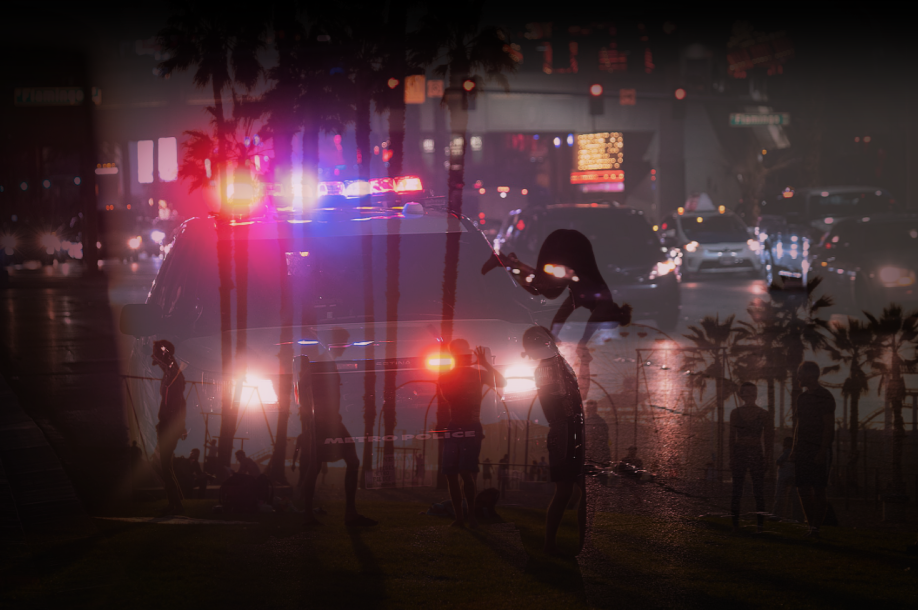
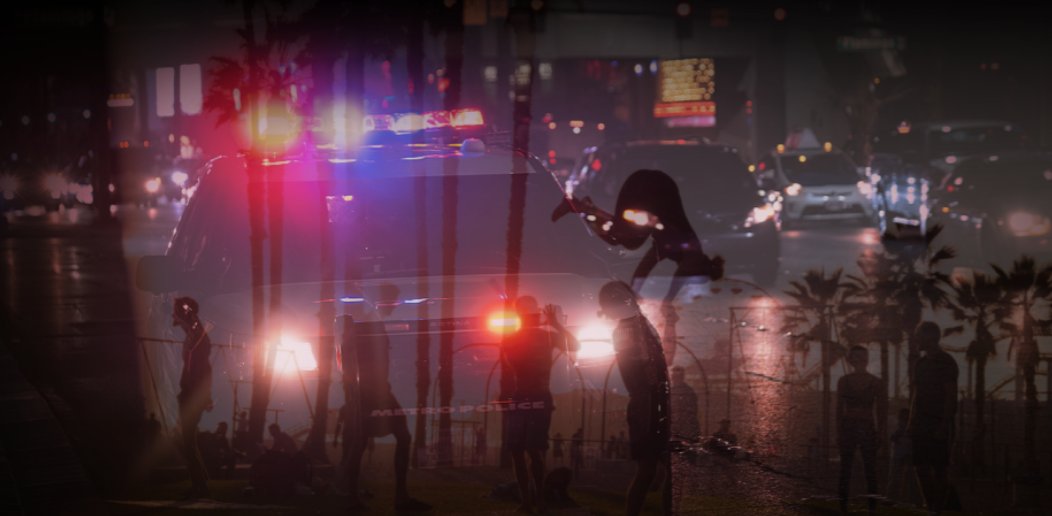
equipe zooning

diff --git a/crud/assets/css/equipe.css b/crud/assets/css/equipe.css
@@ -1,0 +1,30 @@
+.equipe {
+    display: flex;
+    flex-direction: row-reverse;
+    position: absolute;
+    top: 50%;
+    left: 10%;
+    z-index: 500;
+    justify-content: space-between;
+    width: 80%;
+}
+
+.navBarStaff{
+    display: flex;
+    position: absolute;
+    top: 40%;
+    width: 80%;
+    height: 7%;
+    background-color: rgb(255, 255, 255);
+    justify-content: center;
+    left: 10%;
+    align-items: center;
+    border-radius: 30px;
+    opacity: 50%;
+     color: white;
+font-weight: bold;
+}
+
+h4 {
+   
+}

diff --git a/crud/assets/css/commun.css b/crud/assets/css/commun.css
@@ -10,6 +10,7 @@ body {
 
 .scf-city {
     width: 100vw;
+    height: auto;
 }
 
 #titre {
@@ -96,7 +97,7 @@ body {
     width: 900px;
     position: absolute;
     left: 19%;
-    top: 130%;
+    top: 115%;
     display: flex;
     flex-direction: row-reverse;
 }
@@ -171,6 +172,6 @@ body {
 /* Form */
 .form {
     position: absolute;
-    top: 210%;
+    top: 180%;
     width: 100%;
 }

diff --git a/crud/assets/css/reseaux.css b/crud/assets/css/reseaux.css
@@ -1,11 +1,12 @@
 /* reseaux */
 .container_reseaux {
+    position: absolute;
+    top: 20px;
     visibility: hidden;
     width: 100vw;
     display: flex;
     align-items: center;
     justify-content: center;
-    position: absolute;
     top : 89%;
     z-index: 25;
 }

diff --git a/crud/assets/css/header.css b/crud/assets/css/header.css
@@ -2,6 +2,12 @@
     width: 19%;
 }
 
+header{
+    position: sticky;
+    top: 0;
+    z-index: 1000;
+}
+
 .navbar-brand {
     z-index: 50;
     position: absolute;

diff --git a/crud/index.php b/crud/index.php
@@ -86,45 +86,8 @@ require_once 'inc/header.inc.php';
 </div>
 <!-- Carousel End -->
 
-<!-- reseaux NE MARCHE PASSSS !!!! -->
-<!-- reseaux NE MARCHE PASSSS !!!! -->
-<!-- reseaux NE MARCHE PASSSS !!!! -->
-
 <!-- Social media START -->
-<div class="container_reseaux" id="container_reseaux">
-    <div class="reseaux">
-
-        <a href=""><img src="assets\img\logo_Instagram.png" alt=""></a>
-
-        <a href="">
-            <img src="assets\img\logo_facebook.png" alt="">
-        </a>
-
-        <a href="">
-            <img src="assets\img\Logo_tiktok.png" alt="">
-        </a>
-
-        <a href="">
-            <img id="discordLogo" src="assets\img\logo_discord.png" alt="">
-        </a>
-
-        <a href="">
-            <img src="assets\img\logo_twitch.png" alt="">
-        </a>
-
-        <a href="">
-            <img src="assets\img\logo_twitter.png" alt="">
-        </a>
-
-        <a href="">
-            <img src="assets\img\logo_youtube.png" alt="">
-        </a>
-    </div>
-</div>
-
-<div class="logoDiscord2">
-    <img id="logoDiscord2" src="assets\img\logo_discord.png" alt="">
-</div>
+<?php require_once 'inc/reseaux.inc.php' ?>
 <!-- Social media END -->
 
 <!-- Avatars -->
@@ -190,10 +153,10 @@ require_once 'inc/header.inc.php';
         <div class="form-group scf-formScore">
             <label for="exampleFormControlTextarea1">VOTRE AVIS NOUS INTERESSE !</label>
             <div>
-                <img class="etoile" src="assets\img\yellowStar.png" alt="">
-                <img class="etoile" src="assets\img\yellowStar.png" alt="">
-                <img class="etoile" src="assets\img\yellowStar.png" alt="">
-                <img class="etoile" src="assets\img\yellowStar.png" alt="">
+                <img class="etoile" src="assets\img\blackStar.png" alt="">
+                <img class="etoile" src="assets\img\blackStar.png" alt="">
+                <img class="etoile" src="assets\img\blackStar.png" alt="">
+                <img class="etoile" src="assets\img\blackStar.png" alt="">
                 <img class="etoile" src="assets\img\blackStar.png" alt="">
             </div>
             <textarea class="form-control" id="exampleFormControlTextarea1" rows="3" placeholder="Ecrivez votre commentaire"></textarea>

diff --git a/crud/equipe.php b/crud/equipe.php
@@ -1,0 +1,67 @@
+<?php require_once 'config/function.php';
+require_once 'inc/header.inc.php';
+
+
+// if (isset($_GET['a']) && $_GET['a']=='dis'){
+
+//     unset($_SESSION['user']);
+//     $_SESSION['messages']['info'][]='A bientôt !!';
+//     header('location:./');
+//     exit();
+// }
+?>
+
+<div class="titre">
+    <h1 id="titre">
+        L'EQUIPE
+    </h1>
+</div>
+
+<img class="scf-city" src="assets\img\decor6.png" alt="">
+
+<!-- navBarEquipe -->
+<section class="navBarStaff">
+    <h4>eugef</h4>
+    <h4>eugef</h4>
+    <h4>eugef</h4>
+    <h4>eugef</h4>
+    <h4>eugef</h4>
+</section>
+
+<!-- equipe Section -->
+<section class="equipe">
+
+    <div>
+        <img class="avatarItemImage" src="assets\img\Profile-Male-PNG.png" alt="">
+    </div>
+    <div>
+        <img class="avatarItemImage" src="assets\img\Profile-Male-PNG.png" alt="">
+    </div>
+    <div>
+        <img class="avatarItemImage" src="assets\img\Profile-Male-PNG.png" alt="">
+    </div>
+    <div>
+        <img class="avatarItemImage" src="assets\img\Profile-Male-PNG.png" alt="">
+    </div>
+    <div>
+        <img class="avatarItemImage" src="assets\img\Profile-Male-PNG.png" alt="">
+    </div>
+    <div>
+        <img class="avatarItemImage" src="assets\img\Profile-Male-PNG.png" alt="">
+    </div>
+    <div>
+        <img class="avatarItemImage" src="assets\img\Profile-Male-PNG.png" alt="">
+    </div>
+    <div>
+        <img class="avatarItemImage" src="assets\img\Profile-Male-PNG.png" alt="">
+    </div>
+   
+
+</section>
+
+
+<!-- Social media START -->
+<?php require_once 'inc/reseaux.inc.php' ?>
+<!-- Social media END -->
+
+<?php require_once 'inc/footer.inc.php';          ?>

diff --git a/crud/vip.php b/crud/vip.php
@@ -13,7 +13,7 @@ require_once 'inc/header.inc.php';
 
 <div class="titre">
     <h1 id="titre">
-        VIP
+        DEVENIR VIP
     </h1>
 </div>
 
@@ -37,40 +37,7 @@ require_once 'inc/header.inc.php';
 </div>
 
 <!-- Social media START -->
-<div class="container_reseaux" id="container_reseaux">
-    <div class="reseaux">
-
-        <a href=""><img src="assets\img\logo_Instagram.png" alt=""></a>
-
-        <a href="">
-            <img src="assets\img\logo_facebook.png" alt="">
-        </a>
-
-        <a href="">
-            <img src="assets\img\Logo_tiktok.png" alt="">
-        </a>
-
-        <a href="">
-            <img id="discordLogo" src="assets\img\logo_discord.png" alt="">
-        </a>
-
-        <a href="">
-            <img src="assets\img\logo_twitch.png" alt="">
-        </a>
-
-        <a href="">
-            <img src="assets\img\logo_twitter.png" alt="">
-        </a>
-
-        <a href="">
-            <img src="assets\img\logo_youtube.png" alt="">
-        </a>
-    </div>
-</div>
-
-<div class="logoDiscord2">
-    <img id="logoDiscord2" src="assets\img\logo_discord.png" alt="">
-</div>
+<?php require_once 'inc/reseaux.inc.php' ?>
 <!-- Social media END -->
 
 <?php require_once 'inc/footer.inc.php';          ?>

diff --git a/crud/galerie.php b/crud/galerie.php
@@ -64,45 +64,8 @@ require_once 'inc/header.inc.php';
 </div>
 <!-- Carousel End -->
 
-<!-- reseaux NE MARCHE PASSSS !!!! -->
-<!-- reseaux NE MARCHE PASSSS !!!! -->
-<!-- reseaux NE MARCHE PASSSS !!!! -->
-
 <!-- Social media START -->
-<div class="container_reseaux" id="container_reseaux">
-    <div class="reseaux">
-
-        <a href=""><img src="assets\img\logo_Instagram.png" alt=""></a>
-
-        <a href="">
-            <img src="assets\img\logo_facebook.png" alt="">
-        </a>
-
-        <a href="">
-            <img src="assets\img\Logo_tiktok.png" alt="">
-        </a>
-
-        <a href="">
-            <img id="discordLogo" src="assets\img\logo_discord.png" alt="">
-        </a>
-
-        <a href="">
-            <img src="assets\img\logo_twitch.png" alt="">
-        </a>
-
-        <a href="">
-            <img src="assets\img\logo_twitter.png" alt="">
-        </a>
-
-        <a href="">
-            <img src="assets\img\logo_youtube.png" alt="">
-        </a>
-    </div>
-</div>
-
-<div class="logoDiscord2">
-    <img id="logoDiscord2" src="assets\img\logo_discord.png" alt="">
-</div>
+<?php require_once 'inc/reseaux.inc.php' ?>
 <!-- Social media END -->
 
 <?php require_once 'inc/footer.inc.php';          ?>

diff --git a/crud/inc/reseaux.inc.php b/crud/inc/reseaux.inc.php
@@ -1,0 +1,34 @@
+<div class="container_reseaux" id="container_reseaux">
+    <div class="reseaux">
+
+        <a href=""><img src="assets\img\logo_Instagram.png" alt=""></a>
+        
+        <a href="">
+            <img src="assets\img\logo_facebook.png" alt="">
+        </a>
+        
+        <a href="">
+            <img src="assets\img\Logo_tiktok.png" alt="">
+        </a>
+
+        <a href="">
+            <img style="visibility:hidden" id="discordLogo" src="assets\img\logo_discord.png" alt="">
+        </a>
+        
+        <a href="">
+            <img src="assets\img\logo_twitch.png" alt="">
+        </a>
+        
+        <a href="">
+            <img src="assets\img\logo_twitter.png" alt="">
+        </a>
+
+        <a href="">
+            <img src="assets\img\logo_youtube.png" alt="">
+        </a>
+    </div>
+</div>
+
+<div class="logoDiscord2">
+    <img id="logoDiscord2" src="assets\img\logo_discord.png" alt="">
+</div>

diff --git a/crud/inc/header.inc.php b/crud/inc/header.inc.php
@@ -15,6 +15,7 @@
     <link rel="stylesheet" href="assets\css\reseaux.css">
     <link rel="stylesheet" href="assets\css\galerie.css">
     <link rel="stylesheet" href="assets\css\vip.css">
+    <link rel="stylesheet" href="assets\css\equipe.css">
 </head>
 
 <body class="bg-dark">

diff --git a/crud/inc/footer.inc.php b/crud/inc/footer.inc.php
@@ -37,6 +37,8 @@
 
 <script src="assets\js\reseaux.js"></script>
 
+<script src="assets\js\equipe.js"></script>
+
 </body>
 
 </html>
